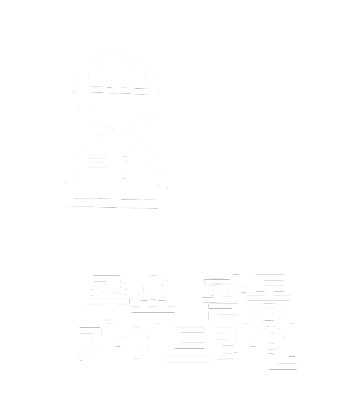
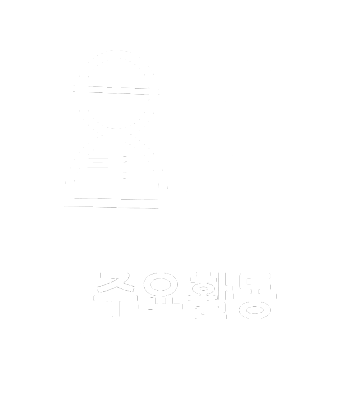
메인 배너 이미지 교체 및 css 수정 통계페이지 테스트 원형차트 추가

diff --git a/src/main/resources/templates/statistics/statisticsTest.html b/src/main/resources/templates/statistics/statisticsTest.html
@@ -1,10 +1,35 @@
 <!DOCTYPE html>
-<html lang="en">
-<head>
-    <meta charset="UTF-8">
-    <title>Title</title>
-</head>
-<body>
-<h1>통계페이지 테스트입니다.</h1>
-</body>
+<html lang="ko"
+	  xmlns:th="http://www.thymeleaf.org"
+	  xmlns:sec="http://www.thymeleaf.org/thymeleaf-extras-springsecurity5"
+      xmlns:layout="http://www.ultraq.net.nz/thymeleaf/layout"
+      layout:decorator="layout/default">
+
+<!-- 사용자 CSS 추가 -->
+<th:block layout:fragment="css">
+
+</th:block>
+
+<!-- 사용자 스크립트 추가 -->
+<th:block layout:fragment="script">
+	<script src="/assets/js/chart-example.js"></script>
+</th:block>
+<div layout:fragment="content" class="content">
+	<section class="section">
+		<div class="stat">
+			<div class="stat__dual">
+				<div class="stat__dual-item">
+					<h3 class="stat__title">출동요청기관</h3>
+					<div class="stat__circle" id="pie_chart"></div>
+				</div>
+				<div class="stat__dual-item">
+					<h3 class="stat__title">출동지역</h3>
+					<div class="stat__map"></div>
+					<div class="stat__local-table"></div>
+				</div>
+			</div>
+		</div>
+	</section>
+	
+</div>
 </html>

diff --git a/src/main/resources/static/assets/css/common.css b/src/main/resources/static/assets/css/common.css
@@ -1625,7 +1625,37 @@ h4.article__heading {
 	font-size: 14px;
 }
 
-/* notice */
+/* statistics */
+.stat {
+	position: relative;
+}
+.stat__dual {
+	position: relative;
+	width: 100%;
+}
+.stat__dual:before {
+	content: " ";
+	display: table;
+}
+.stat__dual:after {
+	content: " ";
+	display: table;
+	clear: both;
+}
+.stat__dual-item {
+	float: left;
+	width: 50%;
+	padding-right: 10px;
+	-webkit-box-sizing: border-box;
+	-moz-box-sizing: border-box;
+	box-sizing: border-box;
+}
+.stat__dual-item:nth-child(2n) {
+	padding-right: 0;
+	padding-left: 10px;
+}
+
+
 
 
 

diff --git a/src/main/resources/static/assets/js/chart-example.js b/src/main/resources/static/assets/js/chart-example.js
@@ -1,6 +1,26 @@
 $(document).ready(function() {
 
+	// pie chart
+	var pie = c3.generate({
+		bindto: "#pie_chart",
+		data: {
+			columns: [
+				['정부·지자체', 5],
+				['타 기관', 3],
+				['KICT 자체', 13]
+			],
+			type: 'pie'
+		},
+		tooltip: {
+			format: {
+				value: function(value, ratio, id) {
+					return value + '건';
+				}
+			}
+		}
+	})
 	
+	/*
 	var ctx = document.getElementById('myChart');
 	var myChart = new Chart(ctx, {
 		type: 'line',
@@ -195,5 +215,6 @@ $(document).ready(function() {
 	        }
 	    }
 	});
+	*/
 
 })
